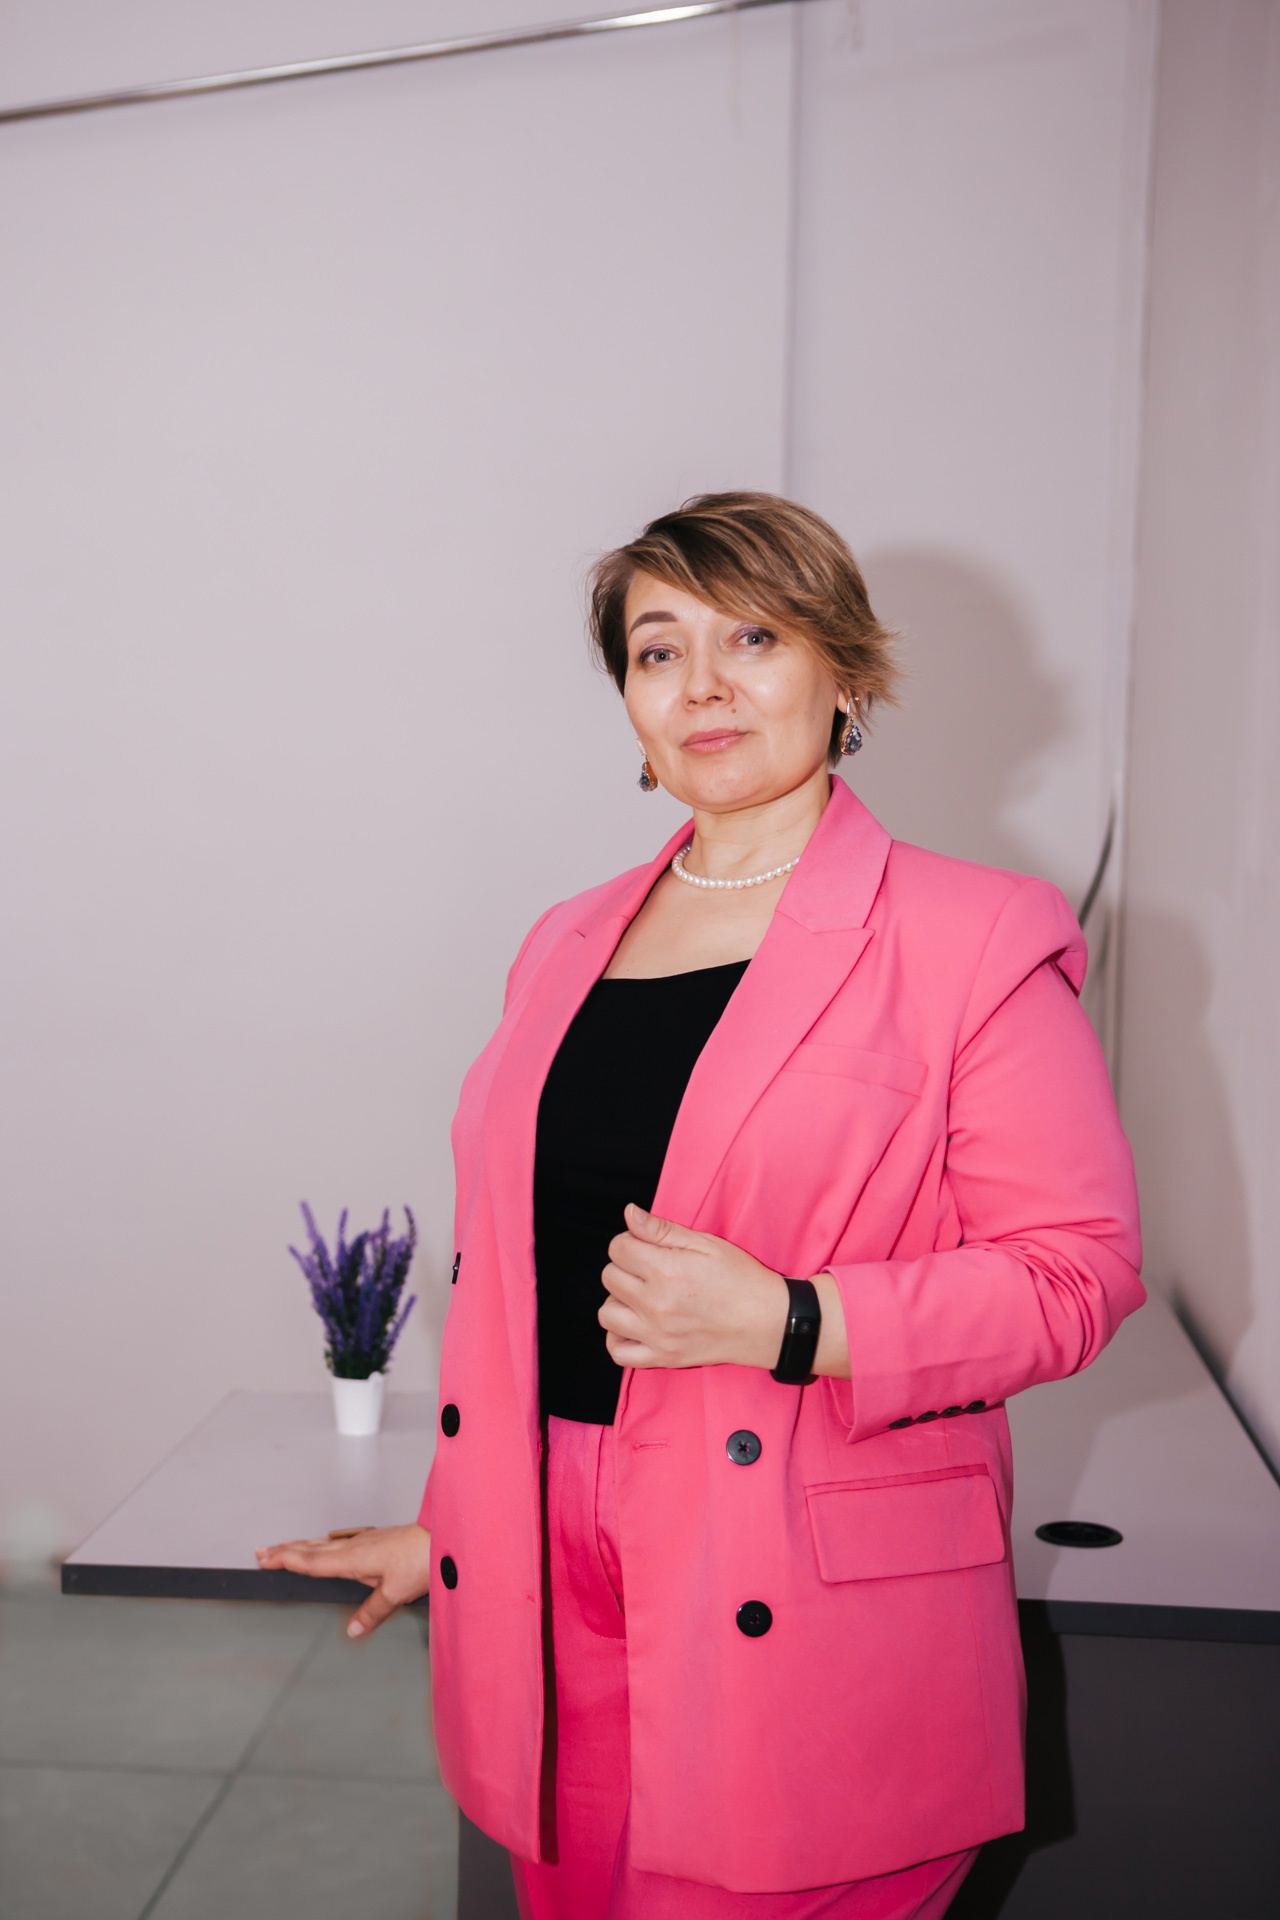
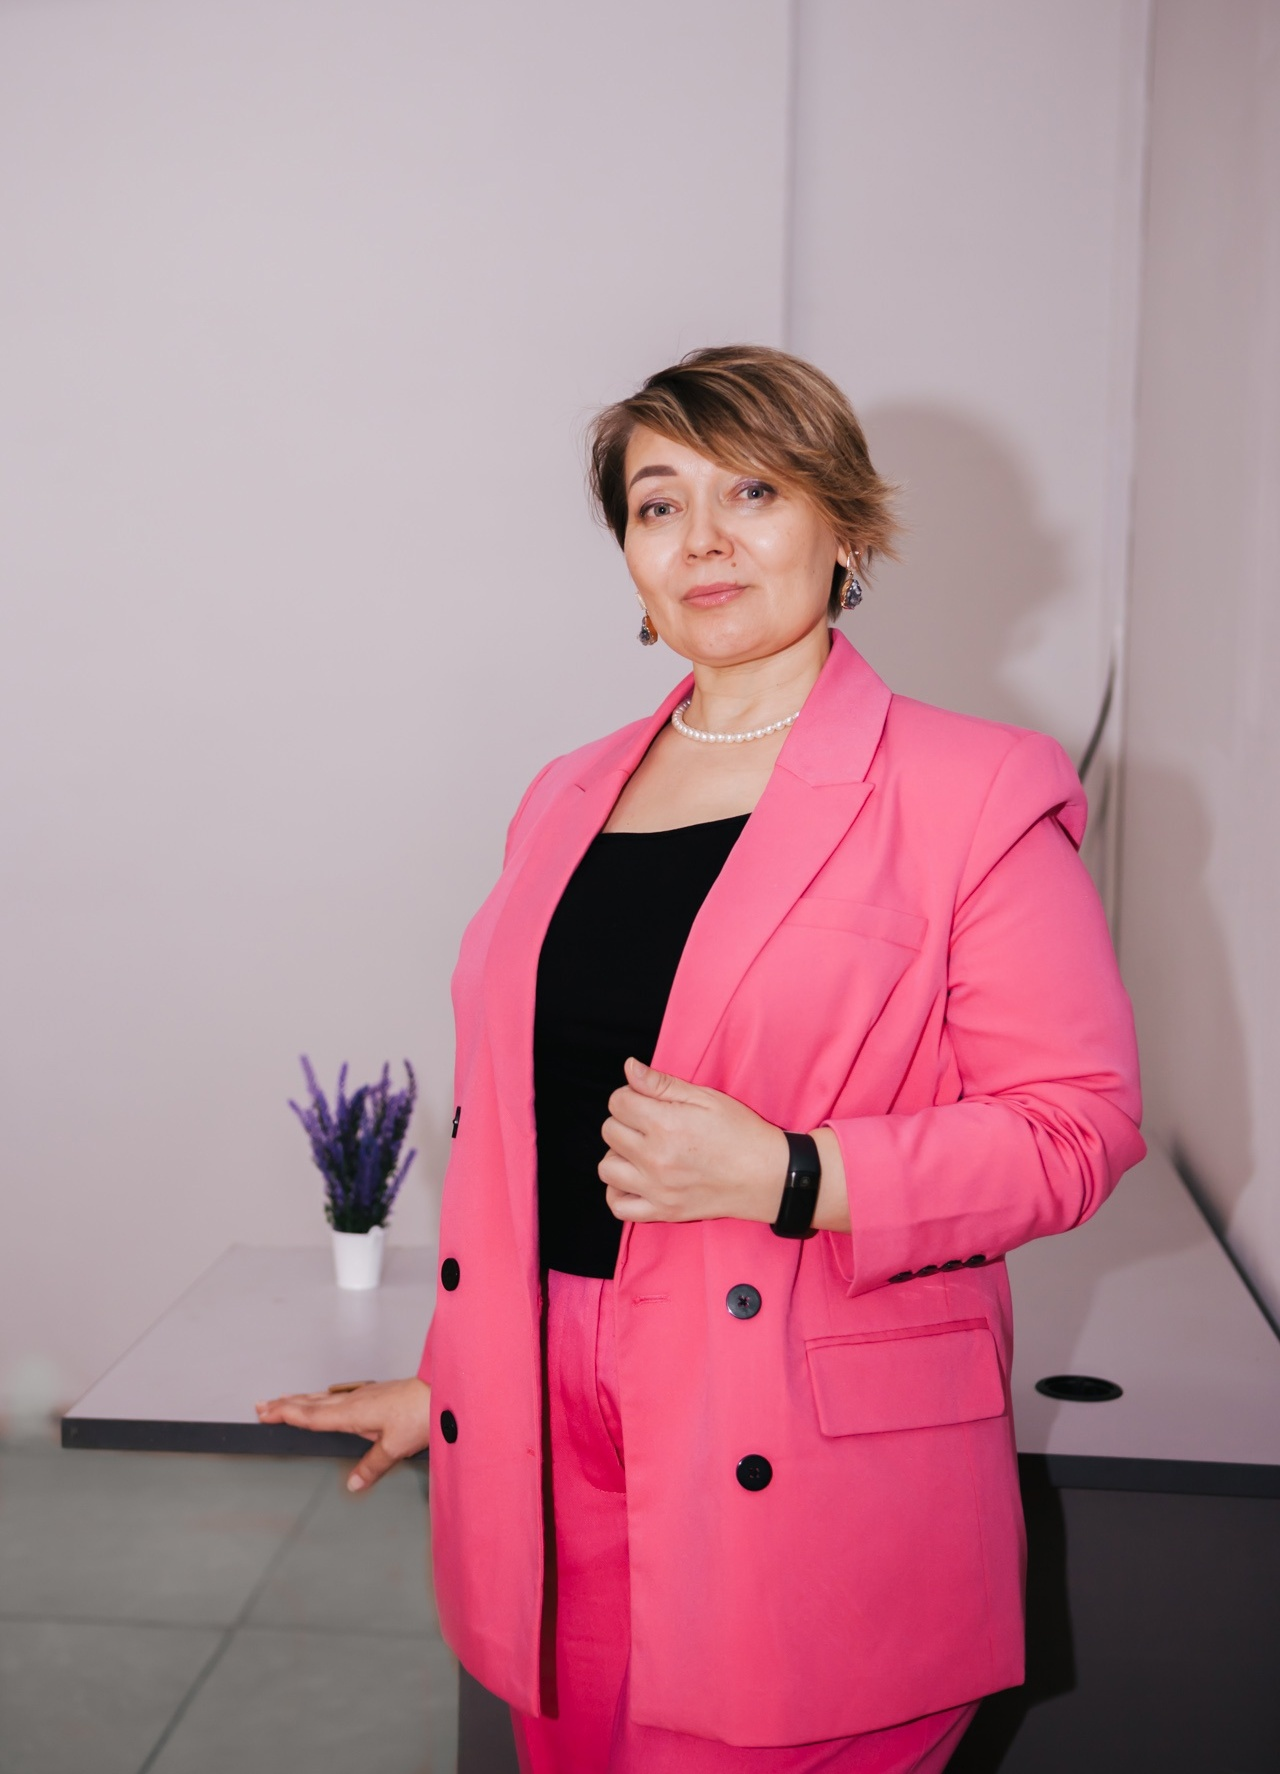
добавил тени, поправил ссылки на формы

diff --git a/src/pages/Services.tsx b/src/pages/Services.tsx
@@ -59,7 +59,7 @@ export const Services = (): JSX.Element => {
                                                 <div className="prices__info">
                                                    
                                                 </div>
-                                                <a href="https://forms.gle/5KAkMCX1qHPcbM1VA" target="_blank" className="registration__button">
+                                                <a href="https://forms.gle/wvTUph8bpFpZoUEK7" target="_blank" className="registration__button">
                                                     Записаться
                                                 </a>
                                             </div>
@@ -93,7 +93,7 @@ export const Services = (): JSX.Element => {
                                                     <div className="prices__info">
                                                         
                                                     </div>
-                                                    <a href="https://forms.gle/s1vwGKAcKTX91Y5T7" target="_blank" className="registration__button">
+                                                    <a href="https://forms.gle/8vKE64quj55sJUSLA" target="_blank" className="registration__button">
                                                         Записаться
                                                     </a>
                                                 </div>
@@ -126,7 +126,7 @@ export const Services = (): JSX.Element => {
                                                     <div className="prices__info">
                                                         
                                                     </div>
-                                                    <a href="https://forms.gle/XS7REAbh2tKTDQKy5" target="_blank" className="registration__button">
+                                                    <a href="https://forms.gle/gsP2DJ4sQiqiFJZb9" target="_blank" className="registration__button">
                                                         Записаться
                                                     </a>
                                                 </div>
@@ -158,7 +158,7 @@ export const Services = (): JSX.Element => {
                                                     <div className="prices__info">
                                                         
                                                     </div>
-                                                    <a href="https://forms.gle/zpyUmGbjNuqppRk37" target="_blank" className="registration__button">
+                                                    <a href="https://forms.gle/so8SJjkKgtY7zssLA" target="_blank" className="registration__button">
                                                         Записаться
                                                     </a>
                                                 </div>
@@ -193,7 +193,7 @@ export const Services = (): JSX.Element => {
                                                     <div className="prices__info">
                                                         
                                                     </div>
-                                                    <a href="https://forms.gle/HUMBYzJSF4ogy4Ec9" target="_blank" className="registration__button">
+                                                    <a href="https://forms.gle/4uhNBXUQeKYLpQki6" target="_blank" className="registration__button">
                                                         Записаться
                                                     </a>
                                                 </div>
@@ -228,7 +228,7 @@ export const Services = (): JSX.Element => {
                                                     <div className="prices__info">
                                                         
                                                     </div>
-                                                    <a href="https://forms.gle/Y7tNzJuQA3X55nWf7" target="_blank" className="registration__button">
+                                                    <a href="https://forms.gle/xWhH1CJar6SKdT5K8" target="_blank" className="registration__button">
                                                         Записаться
                                                     </a>
                                                 </div>
@@ -284,7 +284,7 @@ export const Services = (): JSX.Element => {
                                                 </div>
                                                 <a 
                                                     type="submit" 
-                                                    href="https://forms.gle/5xckKH6wCdwmAsGQ7" 
+                                                    href="https://forms.gle/oRj2uiEAWbi2zu7i8" 
                                                     target="_blank" 
                                                     className="registration__button"
                                                 >
@@ -333,7 +333,7 @@ export const Services = (): JSX.Element => {
                                                     <div className="prices__info">
                                                         
                                                     </div>
-                                                    <a href="https://forms.gle/wDGNDqVMVRe8ZPqf7" target="_blank" className="registration__button">
+                                                    <a href="https://forms.gle/FQKburrJSt4fsD9a6" target="_blank" className="registration__button">
                                                         Записаться
                                                     </a>
                                                 </div>

diff --git a/src/styles/AboutMe.scss b/src/styles/AboutMe.scss
@@ -48,6 +48,9 @@
 .bottomContent__image-wrapper {
     max-width: 400px;
     height: 500px;
+    -webkit-box-shadow: -18px 27px 67px -28px rgba(0,0,0,0.38);
+    -moz-box-shadow: -18px 27px 67px -28px rgba(0,0,0,0.38);
+    box-shadow: -18px 27px 67px -28px rgba(0,0,0,0.38);
 }
 
 .bottomContent__image {

diff --git a/src/styles/StartPage.scss b/src/styles/StartPage.scss
@@ -20,6 +20,10 @@
         width: 100%;
         height: 100%;
         border-radius: 5px;
+        -webkit-box-shadow: 22px 25px 44px -28px rgba(0,0,0,0.34);
+        -moz-box-shadow: 22px 25px 44px -28px rgba(0,0,0,0.34);
+        box-shadow: 22px 25px 44px -28px rgba(0,0,0,0.34);
+        
     }
 }
 

diff --git a/src/styles/Reviews.scss b/src/styles/Reviews.scss
@@ -21,6 +21,9 @@
     border-radius: 5px;
     margin-top: 30px;
     padding: 30px 40px;
+    -webkit-box-shadow: 2px 37px 78px -39px rgba(0,0,0,0.12);
+    -moz-box-shadow: 2px 37px 78px -39px rgba(0,0,0,0.12);
+    box-shadow: 2px 37px 78px -39px rgba(0,0,0,0.12);
 } 
 
 .slider {

diff --git a/src/styles/Services.scss b/src/styles/Services.scss
@@ -40,6 +40,7 @@ $textColor: rgba(85, 61, 42, .95);
     align-items: center;
     width: 100%;
     gap: 30px;
+
 }
 
 .accordion-header {
